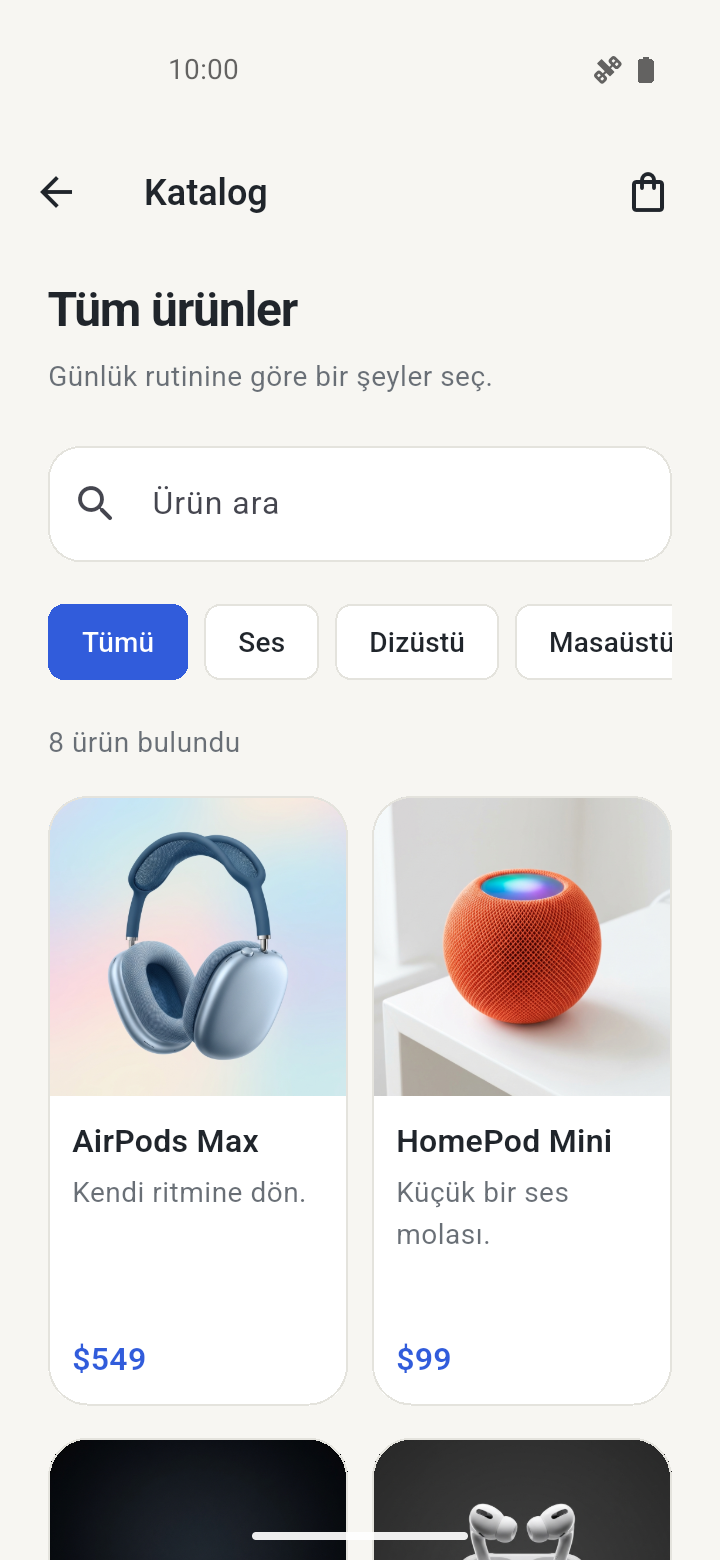
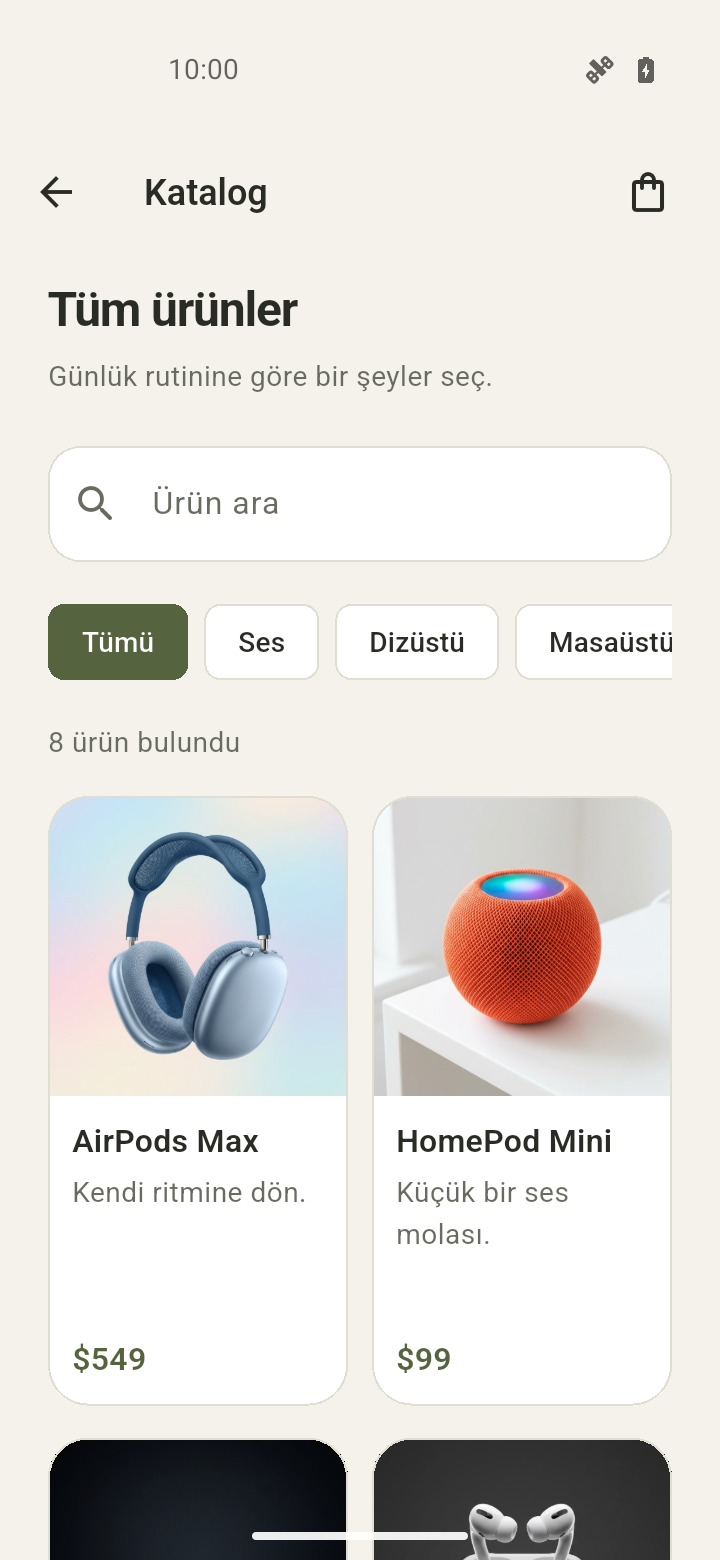
feat: update app colors

diff --git a/lib/app/app_theme.dart b/lib/app/app_theme.dart
@@ -1,21 +1,27 @@
 import 'package:flutter/material.dart';
 
 abstract final class AppTheme {
-  static const background = Color(0xFFF7F6F2);
-  static const ink = Color(0xFF20252B);
-  static const muted = Color(0xFF696F76);
-  static const accent = Color(0xFF315CDB);
-  static const border = Color(0xFFE4E3DD);
+  static const background = Color(0xFFF5F2EB);
+  static const ink = Color(0xFF292C25);
+  static const muted = Color(0xFF686C60);
+  static const accent = Color(0xFF55633E);
+  static const border = Color(0xFFDEDED2);
 
   static const pagePadding = 24.0;
   static const sectionGap = 32.0;
   static const cornerRadius = 20.0;
 
   static ThemeData get light {
-    final scheme = ColorScheme.fromSeed(
-      seedColor: accent,
-      surface: background,
-    ).copyWith(onSurface: ink, primary: accent, outlineVariant: border);
+    final scheme = ColorScheme.fromSeed(seedColor: accent, surface: background)
+        .copyWith(
+          onSurface: ink,
+          onSurfaceVariant: muted,
+          primary: accent,
+          onPrimary: Colors.white,
+          secondary: const Color(0xFF666B50),
+          tertiary: const Color(0xFF806047),
+          outlineVariant: border,
+        );
     final base = ThemeData(useMaterial3: true, colorScheme: scheme);
     final roundedShape = RoundedRectangleBorder(
       borderRadius: BorderRadius.circular(cornerRadius),
